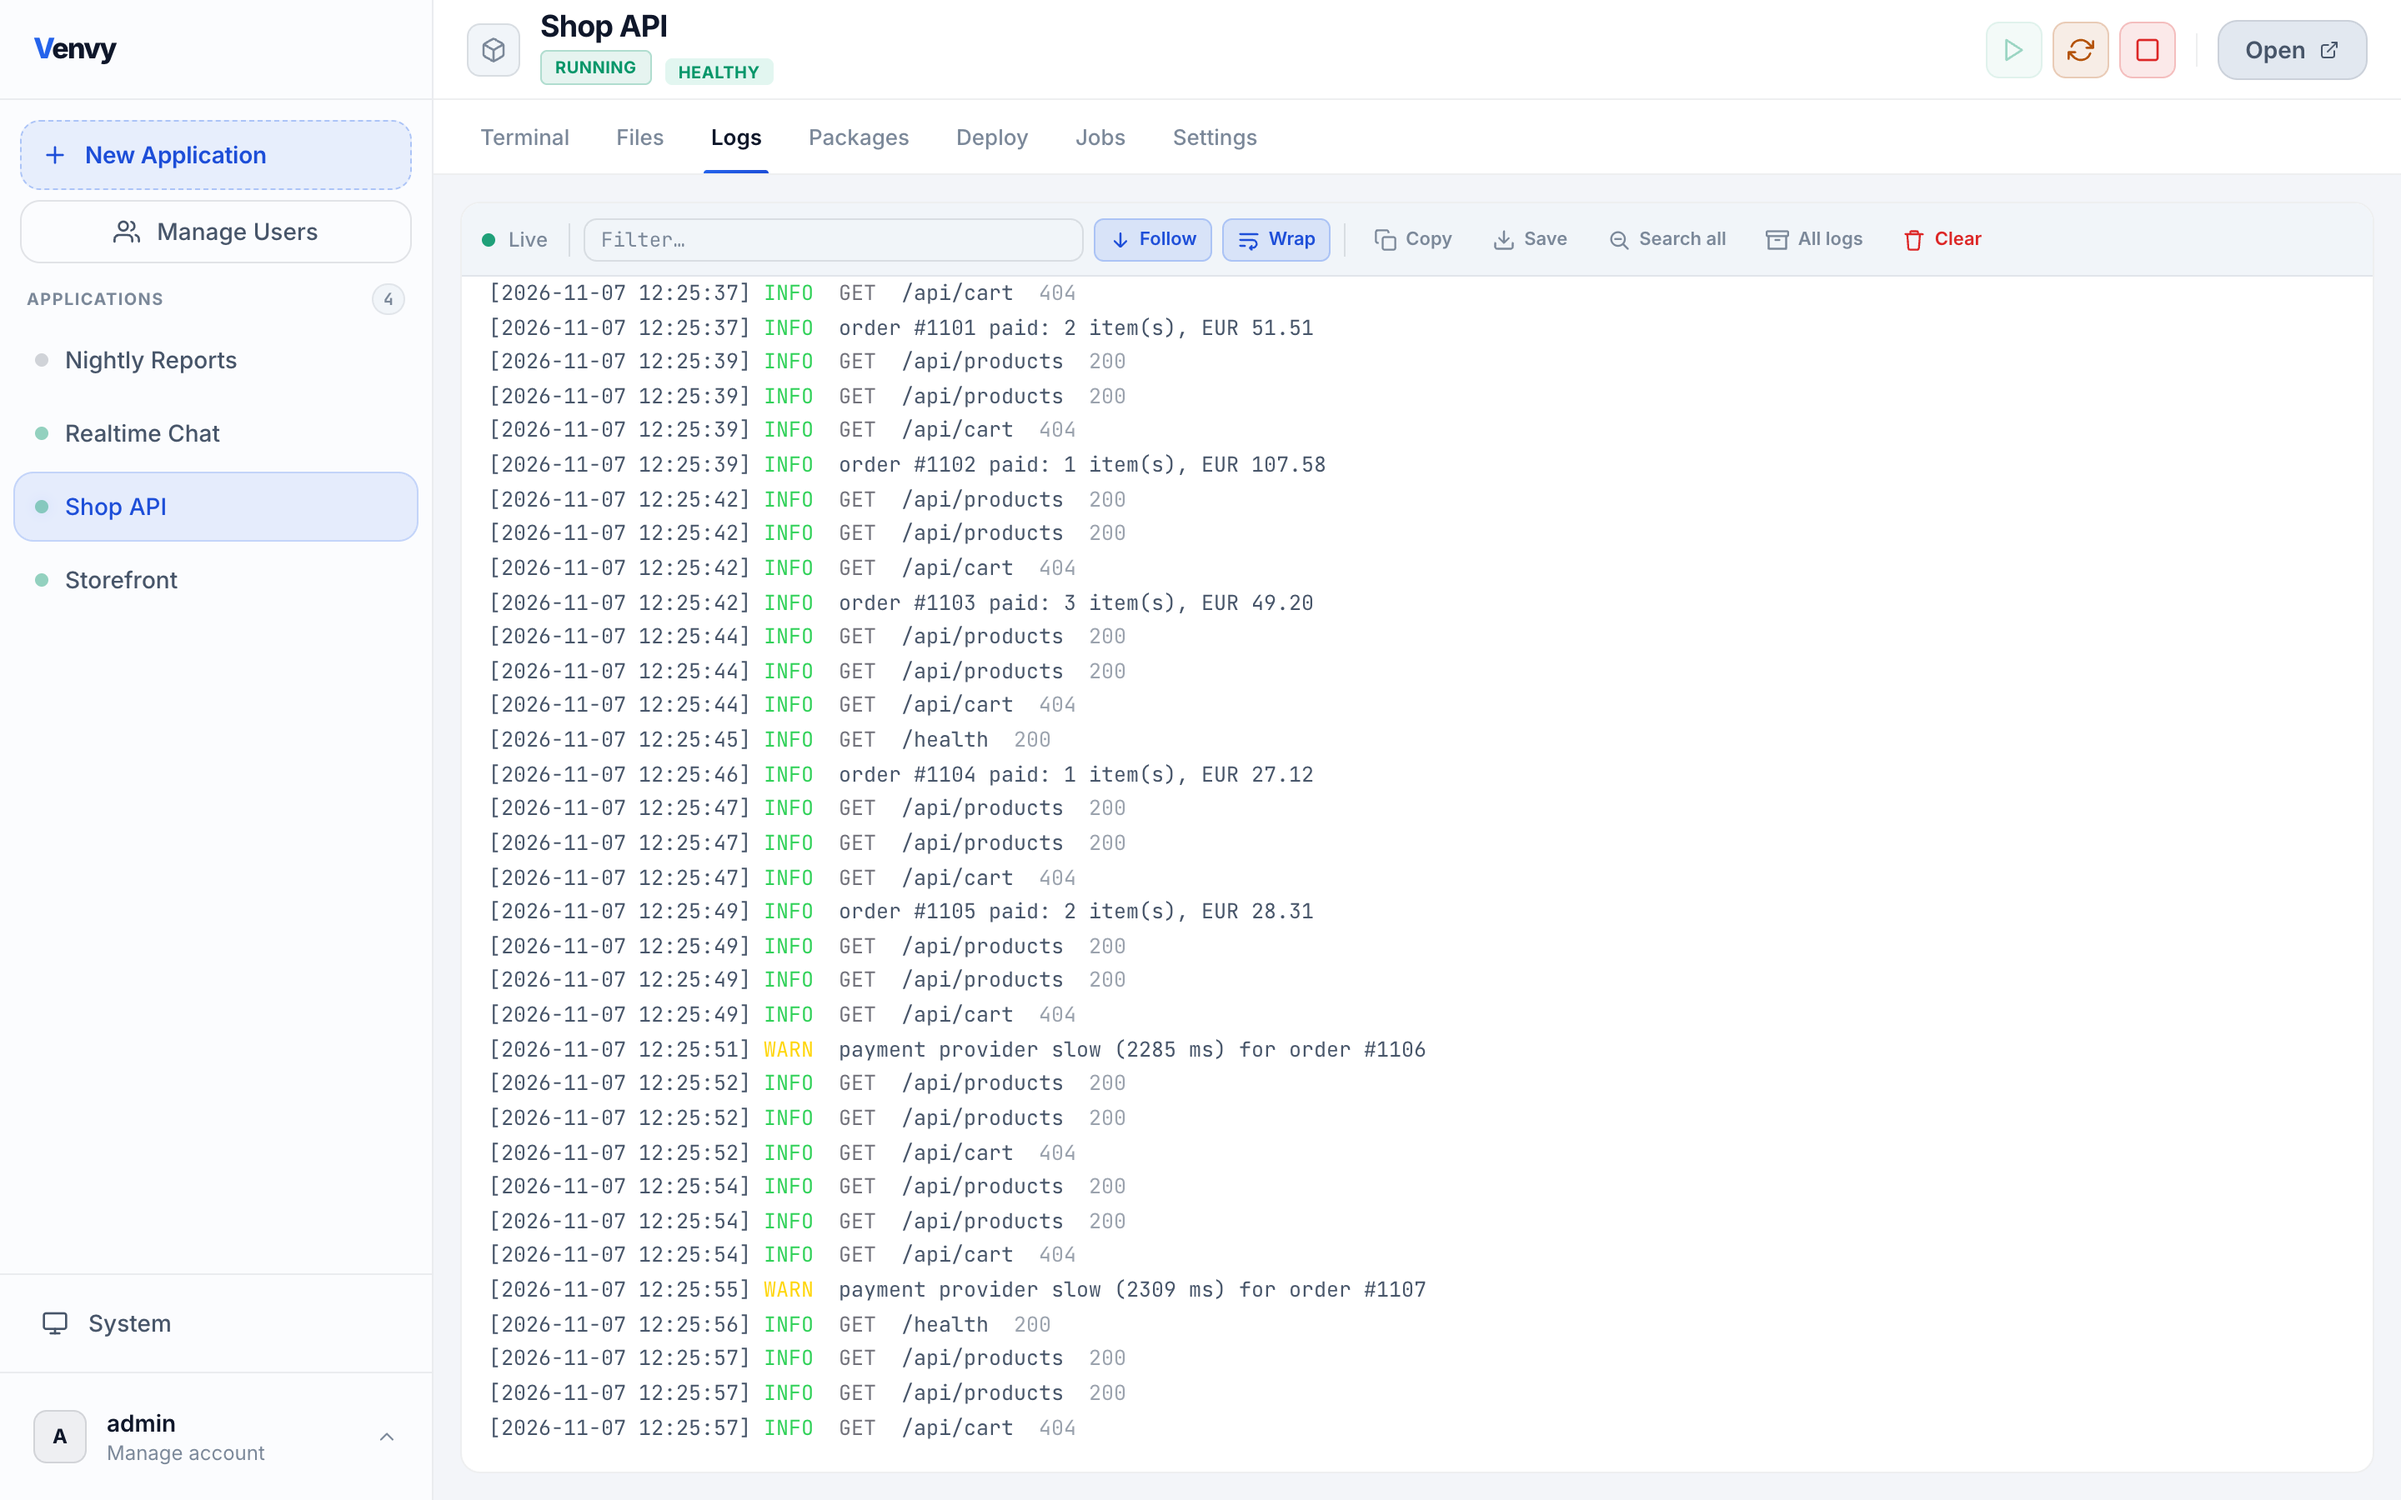
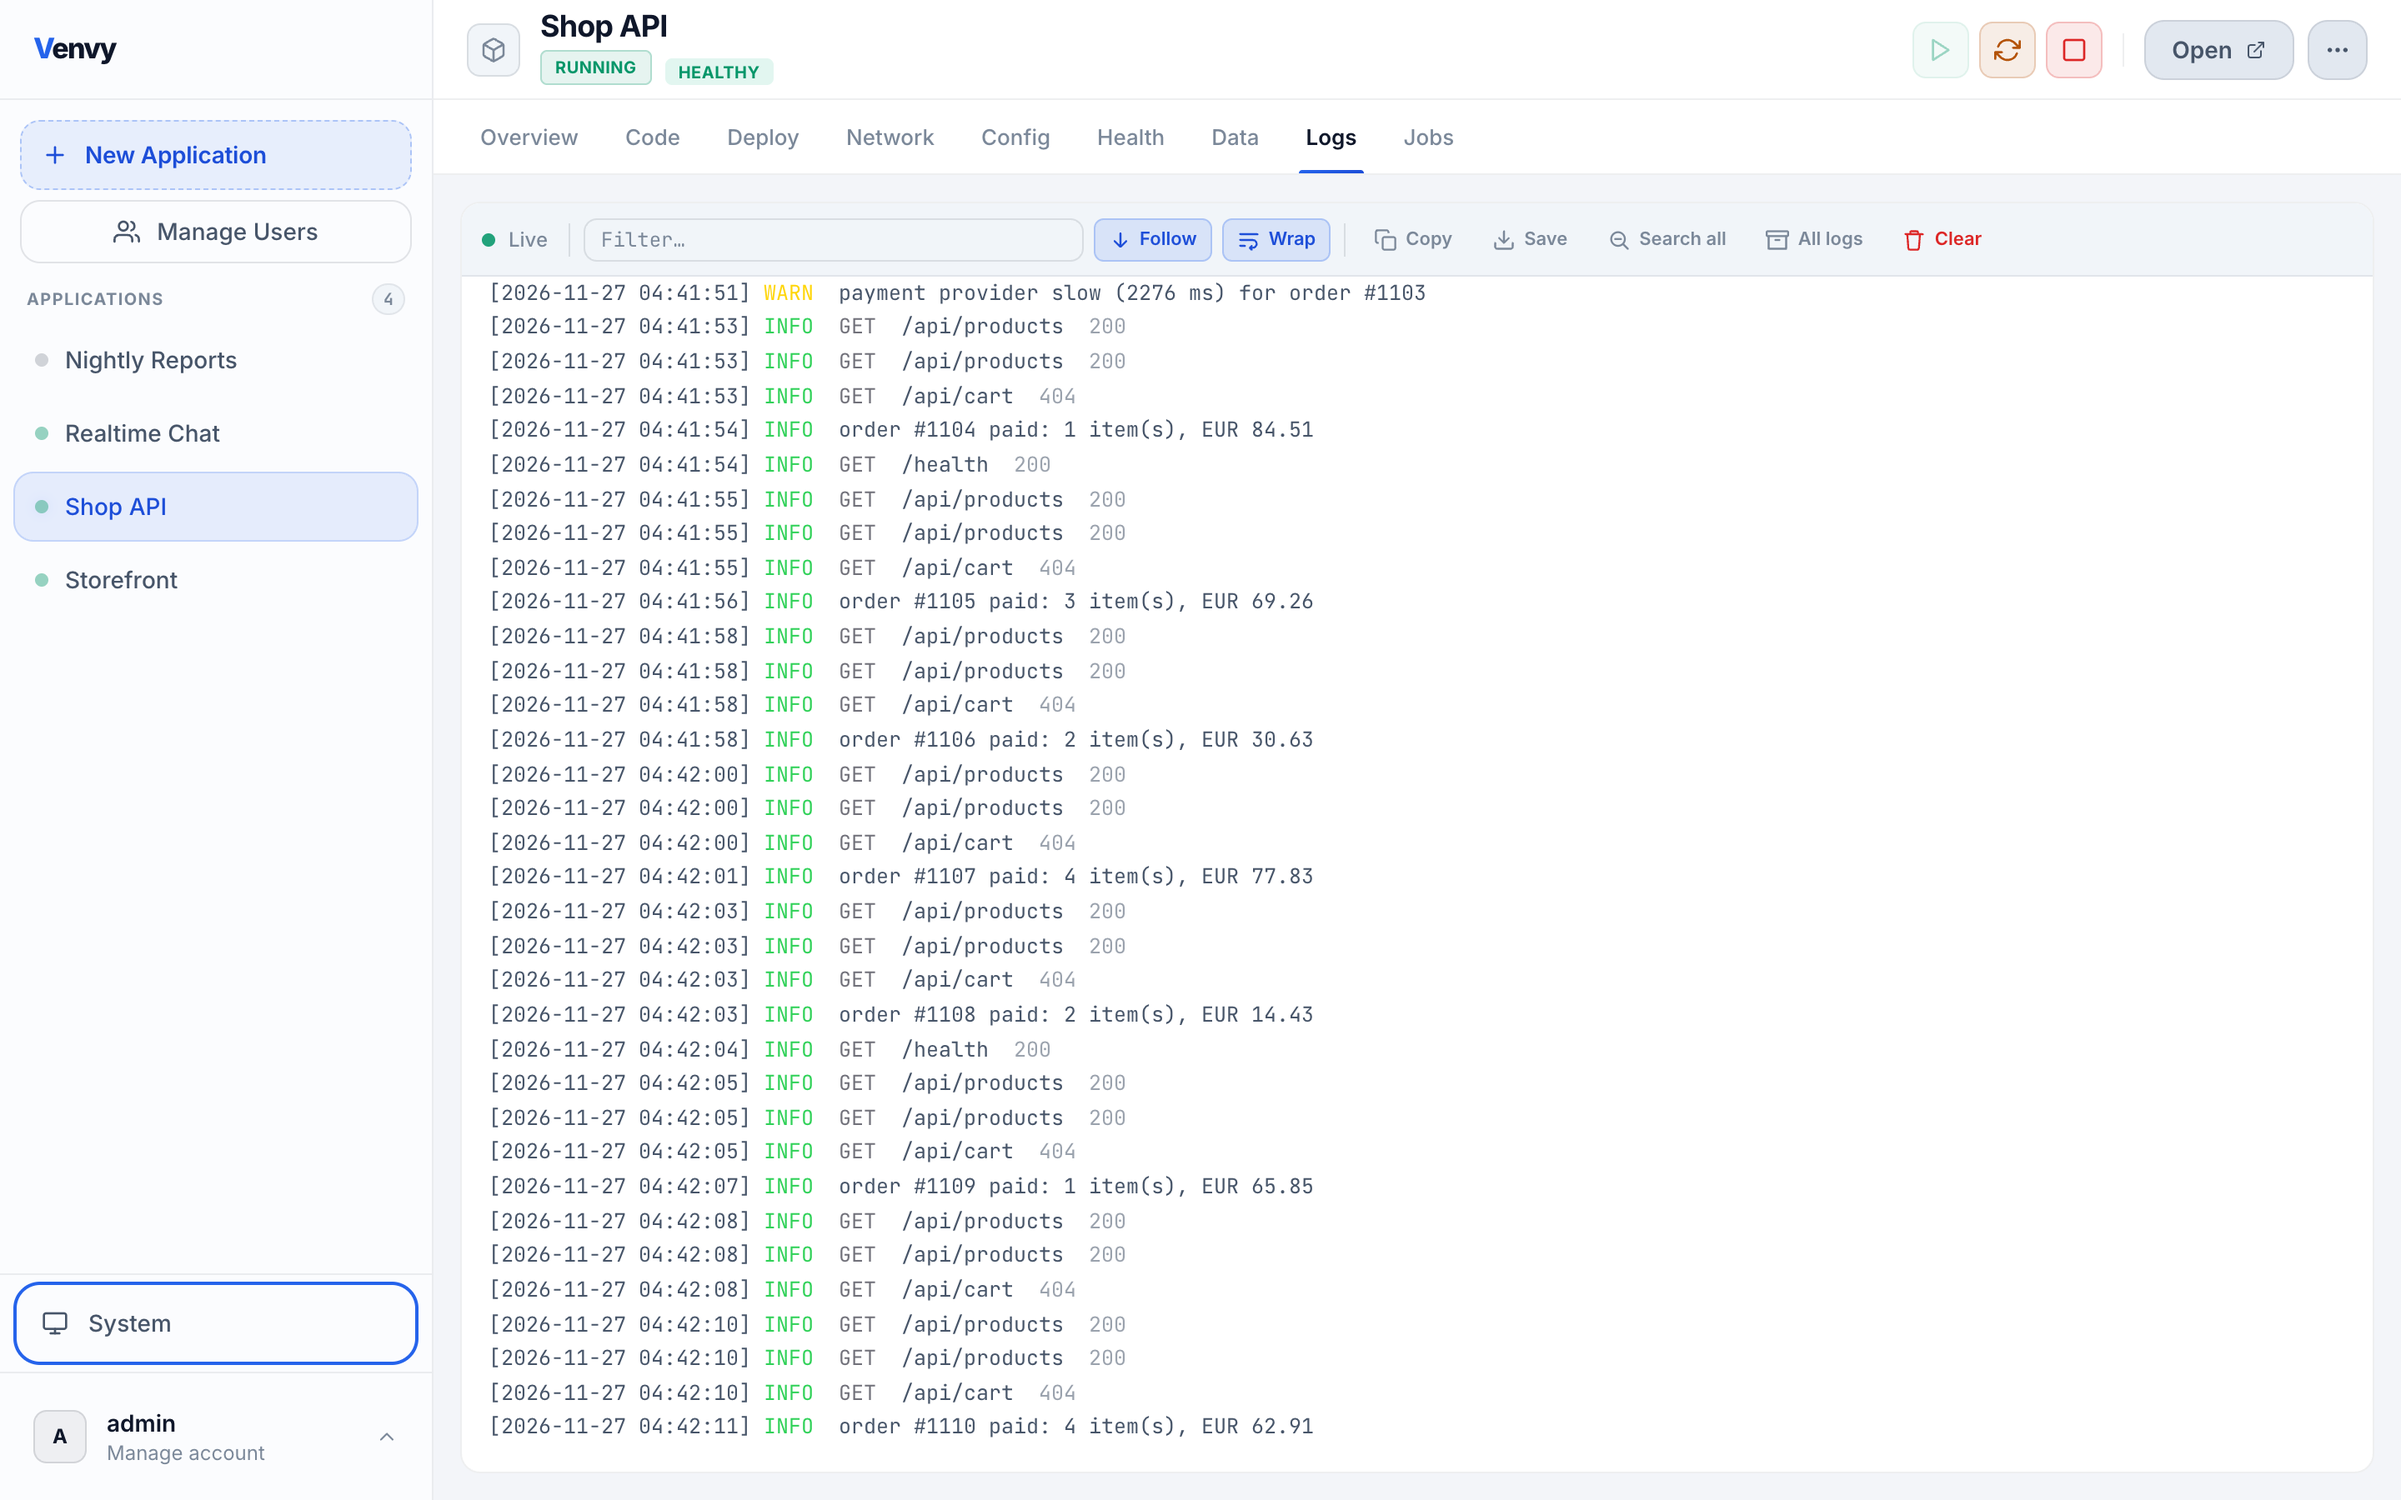
README screenshots of the new layout

diff --git a/scripts/screenshots.py b/scripts/screenshots.py
@@ -201,8 +201,8 @@ def main() -> None:
                     pg.screenshot(path=str(OUT / f"{name}.png"))
                     print("  ", name)
 
-                def open_app(pg, app_id):
-                    pg.evaluate(f"selectApp({app_id})")
+                def open_app(pg, app_id, tab="overview"):
+                    pg.evaluate(f"selectApp({app_id}, '{tab}')")
                     pg.wait_for_timeout(1500)
 
                 def type_commands(pg, commands):
@@ -216,7 +216,7 @@ def main() -> None:
 
                 ctx, pg = signed_in(viewport={"width": 1440, "height": 900}, device_scale_factor=2, color_scheme="dark")
                 pg.evaluate("setTheme('dark')")
-                open_app(pg, shop)
+                open_app(pg, shop, "terminal")
                 pg.wait_for_function("window.term && termSocket && termSocket.readyState === 1", timeout=15000)
                 type_commands(pg, terminal)
                 shot(pg, "terminal")
@@ -227,16 +227,15 @@ def main() -> None:
                 shot(pg, "logs", 2000)
                 pg.evaluate("switchTab('deploy')")
                 shot(pg, "deploy", 1500)
-                pg.evaluate("switchTab('settings')")
-                pg.wait_for_timeout(2000)
-                pg.evaluate("document.getElementById('usage-cpu').closest('.card').scrollIntoView({block: 'start'})")
-                shot(pg, "settings", 1200)
+                pg.evaluate("switchTab('overview')")
+                shot(pg, "overview", 2500)
+                pg.evaluate("switchTab('network')")
+                shot(pg, "network", 1800)
                 open_app(pg, reports)
                 pg.evaluate("switchTab('jobs')")
                 shot(pg, "jobs", 1200)
                 pg.click("#system-nav-btn")
                 pg.wait_for_timeout(3000)
-                pg.evaluate("document.getElementById('sys-history-card').scrollIntoView({block: 'start'})")
                 shot(pg, "system", 1200)
                 open_app(pg, shop)
                 pg.evaluate("switchTab('logs')")
@@ -258,7 +257,7 @@ def main() -> None:
                 pg.evaluate("toggleSidebar()")
                 shot(pg, "mobile-sidebar", 900)
                 pg.evaluate("toggleSidebar()")
-                open_app(pg, shop)
+                open_app(pg, shop, "terminal")
                 pg.wait_for_function("window.term && termSocket && termSocket.readyState === 1", timeout=15000)
                 type_commands(pg, ["clear", "ls", f"curl -s localhost:{shop_port}/health; echo"])
                 shot(pg, "mobile-terminal")

diff --git a/README.md b/README.md
@@ -85,7 +85,7 @@ Settings live in `/etc/venvy/venvy.env`, data in `/var/lib/venvy`, code in `/opt
 
 ## Runtimes
 
-Pick one when you create an app; it can be changed later in Settings. Venvy tells you at start-up
+Pick one when you create an app; it can be changed later in Deploy → Build and run. Venvy tells you at start-up
 (and in the dropdown) which ones this host is missing.
 
 | Runtime | Starts with | Built with | Packages tab |
@@ -157,7 +157,7 @@ otherwise on the first start (or with "Install from manifest" in the Packages ta
 - **Users and roles.** Admin, operator and read-only viewer, with optional TOTP two-factor.
 - **Installable PWA** with light and dark themes, a command palette (<kbd>Ctrl</kbd>+<kbd>K</kbd>)
   and keyboard shortcuts.
-- **Processes.** Workers (Procfile, `venvy.toml` or the Hosting tab) and replicas (`instances`) behind
+- **Processes.** Workers (Procfile, `venvy.toml` or Deploy → Processes) and replicas (`instances`) behind
   the proxy with round-robin load balancing; rolling restarts that drain each process first, and
   zero-downtime restarts of a single instance.
 - **Apps as services.** On a per-app-users install every app is a systemd service of its own: it
@@ -187,11 +187,15 @@ otherwise on the first start (or with "Install from manifest" in the Packages ta
   </tr>
   <tr>
     <td><img src="docs/screenshots/deploy.png" alt="Deploy tab with the log of a deploy"><br><sub>Deploys, with automatic rollback</sub></td>
-    <td><img src="docs/screenshots/settings.png" alt="Usage charts and health check of an app"><br><sub>Usage history and health checks</sub></td>
+    <td><img src="docs/screenshots/overview.png" alt="An app's Overview: status, health, addresses, last deploy, usage"><br><sub>An app at a glance, with its usage history</sub></td>
   </tr>
   <tr>
-    <td><img src="docs/screenshots/system.png" alt="System view: host usage, activity, alerts, backups, updates"><br><sub>System: host usage, activity, alerts, backups, updates</sub></td>
+    <td><img src="docs/screenshots/network.png" alt="An app's Network tab: its port and every hostname it is reached under"><br><sub>Every hostname of an app in one list</sub></td>
     <td><img src="docs/screenshots/jobs.png" alt="Scheduled jobs of an app"><br><sub>Scheduled jobs</sub></td>
+  </tr>
+  <tr>
+    <td><img src="docs/screenshots/system.png" alt="System view in sections: overview, backups, alerts, network, platform, integrations, access"><br><sub>System, in sections</sub></td>
+    <td></td>
   </tr>
   <tr>
     <td><img src="docs/screenshots/palette.png" alt="Command palette"><br><sub>Command palette (<kbd>Ctrl</kbd>+<kbd>K</kbd>)</sub></td>
